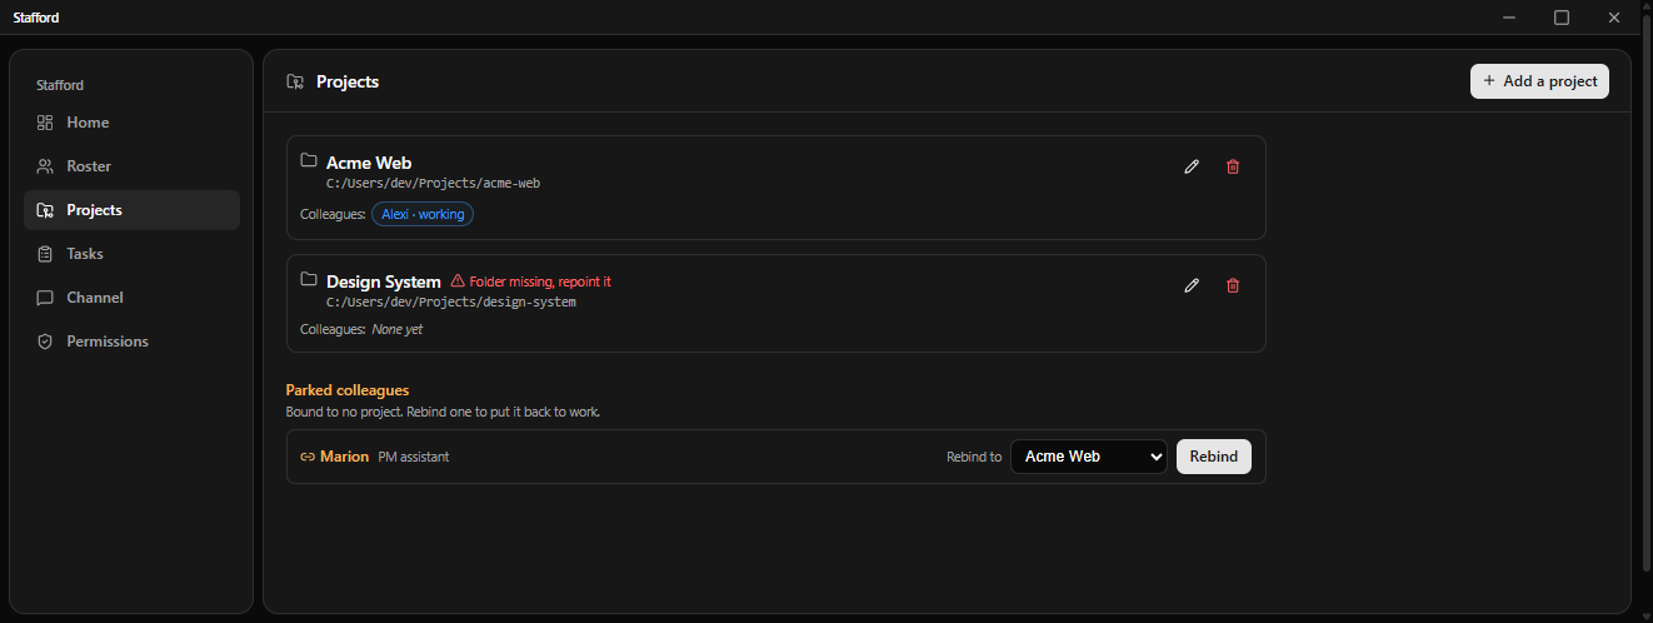
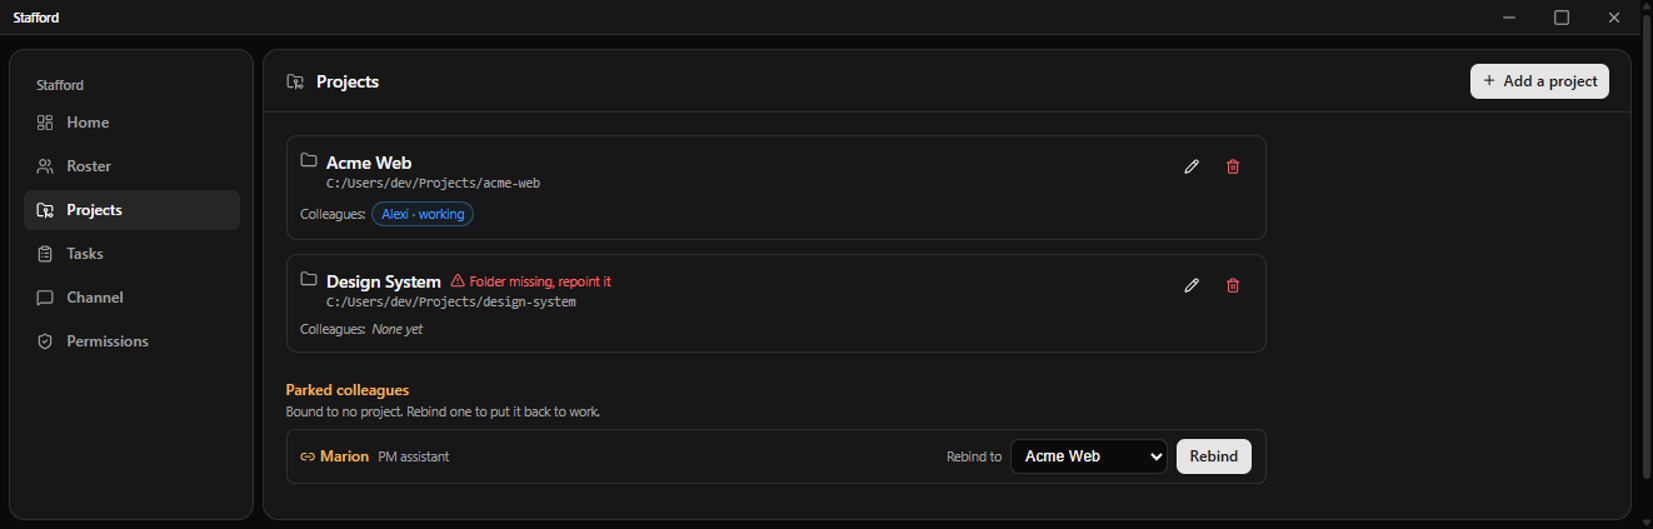
docs: give all three README screenshots one width and center them
Set conversation, tasks, and projects to the same 820px display width and wrap each in a centered block, so they read as one consistent set rather than a full-width hero and two smaller shots. Every image keeps its full-size click-through link and its alt text. Trim the projects and tasks capture heights so the bottom padding matches the app's natural padding instead of leaving a partly empty panel.

diff --git a/README.md b/README.md
@@ -19,7 +19,7 @@ handful of autonomous workers legible and under control rather than tracking a l
 > behind a permission gate where you are the approver. Read the Security model and Limitations sections
 > before you point it at anything you care about.
 
-![Stafford showing a colleague's conversation: a roster of colleagues on the left, and on the right a live turn with a file read, a collapsed code diff, test output, and the markdown reply, with an approval banner across the top. All names, projects, and paths shown are demo data.](docs/images/conversation.png)
+<p align="center"><a href="docs/images/conversation.png"><img src="docs/images/conversation.png" width="820" alt="Stafford showing a colleague's conversation: a roster of colleagues on the left, and on the right a live turn with a file read, a collapsed code diff, test output, and the markdown reply, with an approval banner across the top. All names, projects, and paths shown are demo data."></a></p>
 
 ## What it does
 
@@ -47,9 +47,9 @@ handful of autonomous workers legible and under control rather than tracking a l
   and again at spawn. Each session runs against a Stafford-managed config, so your personal Claude Code
   settings, memory, plugins, and your other repositories do not leak into a colleague's context.
 
-<a href="docs/images/tasks.png"><img src="docs/images/tasks.png" width="820" alt="The Tasks board: tasks across colleagues grouped by state, with columns for waiting for you, working, assigned, approved, and failed, each card showing the colleague, the task, and its result branch. Demo data."></a>
+<p align="center"><a href="docs/images/tasks.png"><img src="docs/images/tasks.png" width="820" alt="The Tasks board: tasks across colleagues grouped by state, with columns for waiting for you, working, assigned, approved, and failed, each card showing the colleague, the task, and its result branch. Demo data."></a></p>
 
-<a href="docs/images/projects.png"><img src="docs/images/projects.png" width="820" alt="The Projects tab: two demo projects with their folders, one flagged to repoint a folder that has moved, a colleague bound to the first, and a parked colleague with a control to rebind it to a project. Demo data."></a>
+<p align="center"><a href="docs/images/projects.png"><img src="docs/images/projects.png" width="820" alt="The Projects tab: two demo projects with their folders, one flagged to repoint a folder that has moved, a colleague bound to the first, and a parked colleague with a control to rebind it to a project. Demo data."></a></p>
 
 ## Requirements
 
